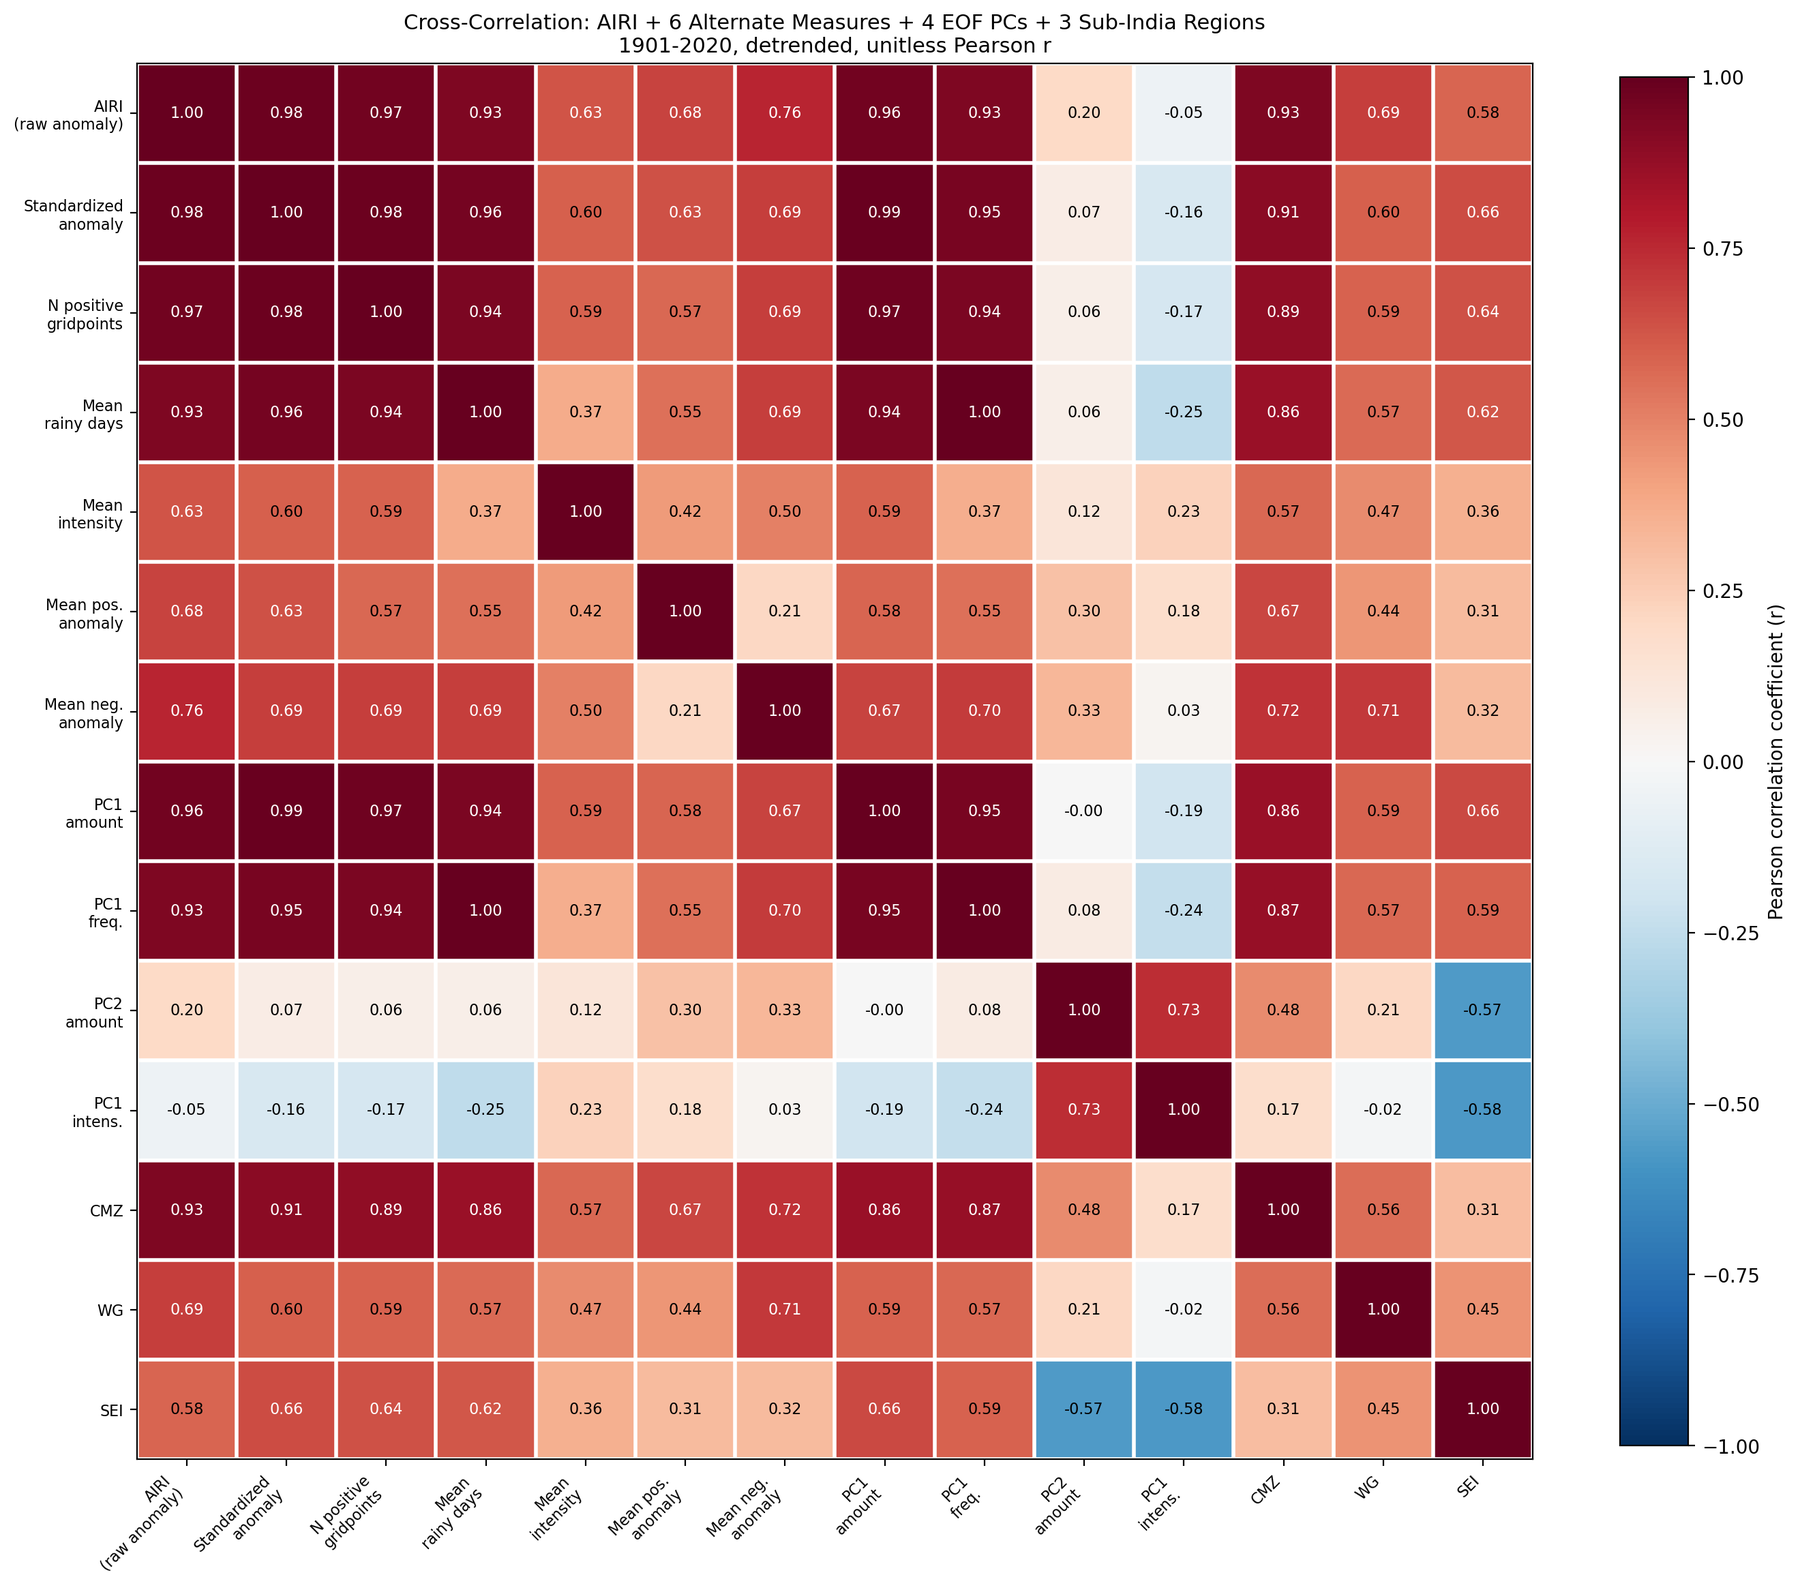
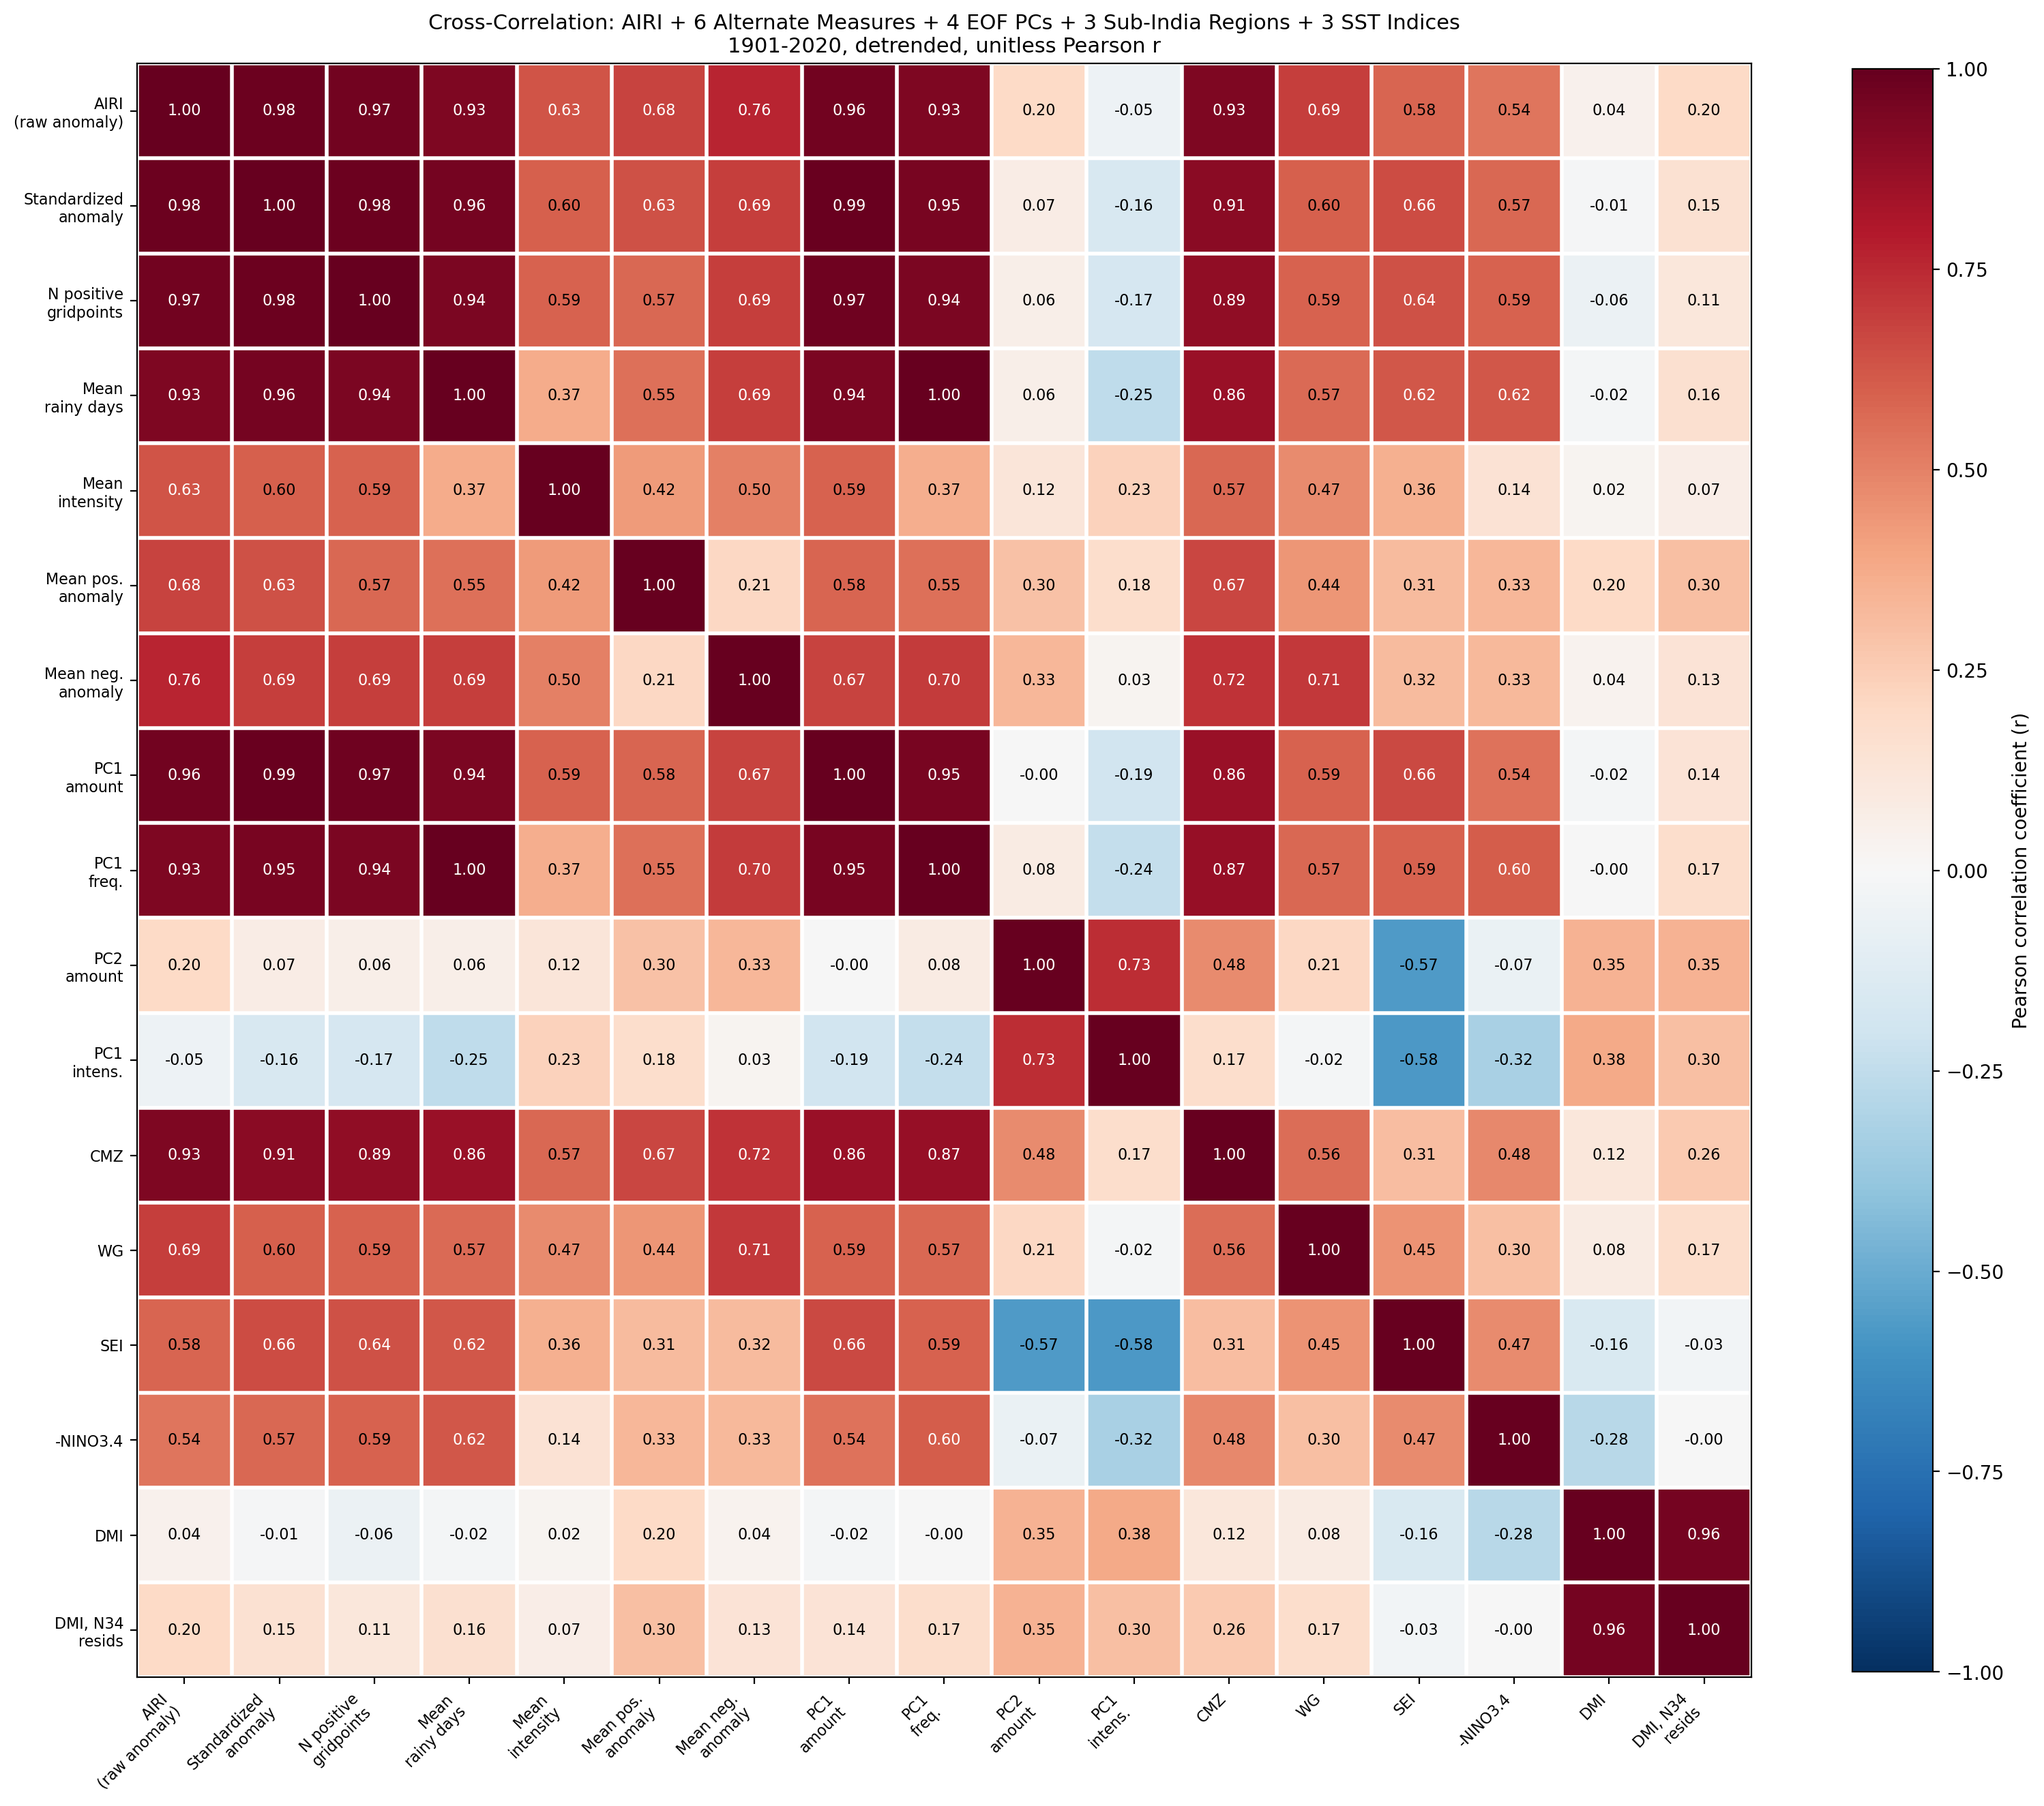
Add -NINO3.4, DMI, and DMI/N34-residual to the correlation matrix
compute_enso_iod_indices.py now also derives:
  - neg_nino34_jjas_detrended: -1 * detrended NINO3.4
  - dmi_n34_residual_detrended: DMI detrended with the linear NINO3.4 signal
    regressed out via OLS (partial correlation), i.e. the part of IOD
    variability independent of ENSO
matching the extra rows in the source paper's own published correlation
matrix (-NINO3.4, DMI, "DMI, N34 resids").

compute_airi_correlation_matrix.py merges these in alongside the 7 AIRI
measures, 4 EOF PCs, and 3 sub-India regions - now a 17x17 matrix.

Notable results: -NINO3.4 vs AIRI = 0.54 (matches the standalone sanity
check already in compute_enso_iod_indices.py); raw DMI barely relates to
AIRI directly (r=0.04); DMI vs its own NINO3.4-residual = 0.96, confirming
the residualization only removed a modest ENSO-shared component, consistent
with DMI-NINO3.4's own r=0.28.

diff --git a/compute_airi_correlation_matrix.py b/compute_airi_correlation_matrix.py
@@ -4,9 +4,12 @@ variability measures in data/indices/airi_indices.csv (AIRI + 6 alternates,
 see compute_airi_indices.py - run that first if the CSV doesn't exist yet),
 4 EOF principal components from compute_moron_eof_analysis.py
 (data/indices/eof_pcs.csv - run that first too): PC1 and PC2 of rainfall
-amount, PC1 of rainy-day frequency, and PC1 of mean intensity, and 3 sub-India
+amount, PC1 of rainy-day frequency, and PC1 of mean intensity, 3 sub-India
 regional mean JJAS rainfall anomalies from compute_subregion_indices.py
-(data/indices/subregion_indices.csv - run that first too): CMZ, WG, SEI.
+(data/indices/subregion_indices.csv - run that first too): CMZ, WG, SEI, and
+3 SST teleconnection indices from compute_enso_iod_indices.py
+(data/indices/enso_iod_indices.csv - run that first too): -NINO3.4, DMI, and
+DMI with the linear NINO3.4 signal regressed out ("DMI, N34 resids").
 Matches the extra rows/columns in the source paper's own published matrix.
 
 Each measure is a different unit (mm/day anomaly, unitless standardized
@@ -17,9 +20,10 @@ shared-axis overlay of the time series themselves.
 Uses the "_detrended" columns from airi_indices.csv and subregion_indices.csv
 (each series' 1901-2020 linear trend removed before correlating), matching
 the source paper's stated methodology - not the raw columns. The PCs from
-eof_pcs.csv are already computed from detrended fields (see
-compute_moron_eof_analysis.py), so they're used as-is, no further detrending
-needed.
+eof_pcs.csv and the 3 SST-derived columns from enso_iod_indices.csv are
+already computed from detrended fields (see compute_moron_eof_analysis.py /
+compute_enso_iod_indices.py respectively), so they're used as-is, no further
+detrending needed.
 """
 import numpy as np
 import pandas as pd
@@ -30,7 +34,12 @@ import matplotlib.pyplot as plt
 df = pd.read_csv('data/indices/airi_indices.csv')
 pcs = pd.read_csv('data/indices/eof_pcs.csv')
 subregions = pd.read_csv('data/indices/subregion_indices.csv')
-df = df.merge(pcs, on='year', how='inner').merge(subregions, on='year', how='inner')
+enso_iod = pd.read_csv('data/indices/enso_iod_indices.csv')
+df = (
+    df.merge(pcs, on='year', how='inner')
+    .merge(subregions, on='year', how='inner')
+    .merge(enso_iod, on='year', how='inner')
+)
 
 LABELS = {
     'airi_raw_anomaly_mm_day': 'AIRI\n(raw anomaly)',
@@ -52,12 +61,21 @@ SUBREGION_LABELS = {
     'wg_mean_anomaly_mm_day': 'WG',
     'sei_mean_anomaly_mm_day': 'SEI',
 }
+ENSO_IOD_LABELS = {
+    'neg_nino34_jjas_detrended': '-NINO3.4',
+    'dmi_jjas_detrended': 'DMI',
+    'dmi_n34_residual_detrended': 'DMI, N34\nresids',
+}
 base_cols = list(LABELS.keys())
 pc_cols = list(PC_LABELS.keys())
 subregion_cols = list(SUBREGION_LABELS.keys())
-detrended_cols = [f'{c}_detrended' for c in base_cols] + pc_cols + [f'{c}_detrended' for c in subregion_cols]
-all_cols = base_cols + pc_cols + subregion_cols
-all_labels = {**LABELS, **PC_LABELS, **SUBREGION_LABELS}
+enso_iod_cols = list(ENSO_IOD_LABELS.keys())  # already detrended, use as-is
+detrended_cols = (
+    [f'{c}_detrended' for c in base_cols] + pc_cols
+    + [f'{c}_detrended' for c in subregion_cols] + enso_iod_cols
+)
+all_cols = base_cols + pc_cols + subregion_cols + enso_iod_cols
+all_labels = {**LABELS, **PC_LABELS, **SUBREGION_LABELS, **ENSO_IOD_LABELS}
 
 corr = df[detrended_cols].corr(method='pearson')
 corr.index = all_cols
@@ -67,7 +85,7 @@ print('Pearson correlation matrix (detrended series + EOF PCs):')
 print(corr.round(2).to_string())
 
 n = len(all_cols)
-fig, ax = plt.subplots(figsize=(14, 13))
+fig, ax = plt.subplots(figsize=(16, 15))
 im = ax.imshow(corr.values, cmap='RdBu_r', vmin=-1, vmax=1)
 
 ax.set_xticks(range(n))
@@ -91,7 +109,7 @@ cbar = fig.colorbar(im, ax=ax, shrink=0.8)
 cbar.set_label('Pearson correlation coefficient (r)')
 
 ax.set_title(
-    'Cross-Correlation: AIRI + 6 Alternate Measures + 4 EOF PCs + 3 Sub-India Regions\n'
+    'Cross-Correlation: AIRI + 6 Alternate Measures + 4 EOF PCs + 3 Sub-India Regions + 3 SST Indices\n'
     '1901-2020, detrended, unitless Pearson r',
     fontsize=11,
 )

diff --git a/compute_enso_iod_indices.py b/compute_enso_iod_indices.py
@@ -20,6 +20,16 @@ within each year to give one JJAS value per index per year, matching the
 paper's stated final step.
 
 ERSSTv5 longitude is 0-360, not -180/180: 120-170W becomes 190-240E.
+
+Also derives 2 columns matching the source paper's own correlation matrix
+layout (`-NINO3.4`, `DMI, N34 resids`):
+  - neg_nino34_jjas_detrended: -1 * the detrended NINO3.4 series (so its
+    correlations read the same sign/direction as the wetness-oriented
+    measures elsewhere in this project's matrix).
+  - dmi_n34_residual_detrended: DMI's detrended series with the linear
+    NINO3.4 signal regressed out (OLS on detrended NINO3.4, residual =
+    DMI - fitted), i.e. the part of DMI's variability independent of ENSO -
+    standard practice since DMI and NINO3.4 are themselves correlated.
 """
 import ssl
 import certifi
@@ -31,6 +41,7 @@ import matplotlib
 matplotlib.use('Agg')
 import matplotlib.pyplot as plt
 from scipy.signal import detrend as scipy_detrend
+from scipy.stats import linregress
 
 _orig_create_default_context = ssl.create_default_context
 
@@ -80,6 +91,15 @@ df = pd.DataFrame({
 })
 df['nino34_jjas_detrended'] = scipy_detrend(df['nino34_jjas'].values, type='linear')
 df['dmi_jjas_detrended'] = scipy_detrend(df['dmi_jjas'].values, type='linear')
+df['neg_nino34_jjas_detrended'] = -df['nino34_jjas_detrended']
+
+slope, intercept, r_dmi_n34, p_dmi_n34, se = linregress(
+    df['nino34_jjas_detrended'], df['dmi_jjas_detrended']
+)
+fitted = slope * df['nino34_jjas_detrended'] + intercept
+df['dmi_n34_residual_detrended'] = df['dmi_jjas_detrended'] - fitted
+print(f"\nDMI ~ NINO3.4 (both detrended): r={r_dmi_n34:.2f}, slope={slope:.2f} "
+      f"-> residualized DMI (ENSO signal removed) saved as dmi_n34_residual_detrended")
 
 os.makedirs('data/indices', exist_ok=True)
 df.to_csv('data/indices/enso_iod_indices.csv', index=False)

diff --git a/README.md b/README.md
@@ -41,8 +41,11 @@ large for GitHub. Only code, figures, and documentation are tracked.
 - `compute_enso_iod_indices.py` — NINO3.4 (120-170°W, 5°S-5°N) and DMI (west box 50-70°E,10°S-0° minus
   east box 90-110°E,10°S-10°N, Saji et al. 1999), area(cos-lat)-weighted box averages of the monthly SST
   anomaly (deviation from each grid point's 1901-2020 monthly climatology), restricted to JJAS and
-  averaged within each year. Outputs `data/indices/enso_iod_indices.csv` (raw + `_detrended`, 120 years)
-  and `figures/enso_iod_indices_timeseries.png`. Validated against the source paper: r(NINO3.4 detrended,
+  averaged within each year. Also derives `neg_nino34_jjas_detrended` (-1x detrended NINO3.4) and
+  `dmi_n34_residual_detrended` (DMI detrended, linear NINO3.4 signal regressed out via OLS - the part of
+  IOD variability independent of ENSO), matching the extra rows in the source paper's own correlation
+  matrix (`-NINO3.4`, `DMI, N34 resids`). Outputs `data/indices/enso_iod_indices.csv` (120 years) and
+  `figures/enso_iod_indices_timeseries.png`. Validated against the source paper: r(NINO3.4 detrended,
   AIRI detrended) = **-0.54**, matching their reported ~-0.53 for NINO3 ("virtually unchanged" for
   NINO3.4) almost exactly. NINO3.4's two clearest peaks land on 1997 and 2015, the two strongest
   observed El Niño events - another good sanity check.
@@ -105,17 +108,22 @@ large for GitHub. Only code, figures, and documentation are tracked.
   `data/indices/subregion_indices.csv` and a mask-verification map (`figures/subregion_masks.png`) —
   look at that figure before trusting the indices, since region boundaries are easy to get subtly wrong.
 - `compute_airi_correlation_matrix.py` — cross-correlation (Pearson r) among the 7 AIRI measures, 4 EOF
-  PCs (PC1/PC2 rainfall amount, PC1 rainy-day frequency, PC1 mean intensity), and the 3 sub-India
-  regional indices above — matching the extra rows/columns in the source paper's own published matrix.
-  All on **detrended** series, as a 14x14 heatmap (`figures/airi_indices_correlation_matrix.png`) and CSV
-  (`data/indices/airi_correlation_matrix.csv`). Needs `eof_pcs.csv` and `subregion_indices.csv` to exist
-  first. AIRI/standardized-anomaly/N-positive-gridpoints/mean-rainy-days/PC1-amount/PC1-freq are all
-  tightly correlated (r≥0.93, largely the same signal, PC1-freq vs mean-rainy-days=1.00 exactly since
-  EOF1 dominates that field's variance); mean intensity and mean positive/negative anomaly are more
+  PCs (PC1/PC2 rainfall amount, PC1 rainy-day frequency, PC1 mean intensity), the 3 sub-India regional
+  indices, and 3 SST teleconnection indices from `compute_enso_iod_indices.py` (-NINO3.4, DMI, and DMI
+  with the linear NINO3.4 signal regressed out) — matching the extra rows/columns in the source paper's
+  own published matrix. All on **detrended** series, as a 17x17 heatmap
+  (`figures/airi_indices_correlation_matrix.png`) and CSV (`data/indices/airi_correlation_matrix.csv`).
+  Needs `eof_pcs.csv`, `subregion_indices.csv`, and `enso_iod_indices.csv` to exist first.
+  AIRI/standardized-anomaly/N-positive-gridpoints/mean-rainy-days/PC1-amount/PC1-freq are all tightly
+  correlated (r≥0.93, largely the same signal, PC1-freq vs mean-rainy-days=1.00 exactly since EOF1
+  dominates that field's variance); mean intensity and mean positive/negative anomaly are more
   independent. CMZ correlates very strongly with AIRI (r=0.93, expected given its size); SEI is the most
   distinct region, anti-correlating with both PC2-amount (r=-0.57) and PC1-intensity (r=-0.58) —
   consistent with SEI being governed more by the northeast monsoon than the southwest-monsoon signal
-  everything else here measures. We're still chasing a specific magnitude discrepancy against the source
+  everything else here measures. -NINO3.4 vs AIRI = 0.54 (matches the standalone sanity check in
+  `compute_enso_iod_indices.py`); raw DMI barely relates to AIRI directly (r=0.04), and DMI vs its own
+  NINO3.4-residual is r=0.96 (expected — only a modest ENSO-shared component was removed, consistent
+  with DMI-NINO3.4's own r=0.28). We're still chasing a specific magnitude discrepancy against the source
   paper's published matrix for the AIRI-vs-mean-intensity cell (the spatially-averaged measure, not the
   PC1 above - paper reports r=0.77; ours currently gives 0.63 detrended, 0.58 raw) — see git history /
   conversation log for what's been ruled out (aggregation order, rain-weighting, threshold choice,

diff --git a/CLAUDE.md b/CLAUDE.md
@@ -52,8 +52,11 @@ Two datasets on hand:
   empty.
 - `data/indices/enso_iod_indices.csv` — NINO3.4 + DMI, JJAS 1901-2020, built by
   `compute_enso_iod_indices.py` from the ERSST file above. Raw + `_detrended` columns, same convention as
-  `airi_indices.csv`. Validated against the source paper's reported NINO3-vs-AIRI correlation (~-0.53,
-  "virtually unchanged" for NINO3.4) - ours gives -0.54 detrended, a strong match.
+  `airi_indices.csv`, plus 2 already-detrended derived columns matching the source paper's matrix layout:
+  `neg_nino34_jjas_detrended` (-1x detrended NINO3.4) and `dmi_n34_residual_detrended` (DMI detrended with
+  the linear NINO3.4 signal regressed out via OLS - `compute_airi_correlation_matrix.py` uses these two
+  directly, no further detrending). Validated against the source paper's reported NINO3-vs-AIRI
+  correlation (~-0.53, "virtually unchanged" for NINO3.4) - ours gives -0.54 detrended, a strong match.
 
 `compute_moron_eof_analysis.py` (and `plot_eof_comparison.py`, which recomputes the same fields for a
 subset comparison figure) run EOF decomposition (cos-lat weighted, via the `eofs` library, same
